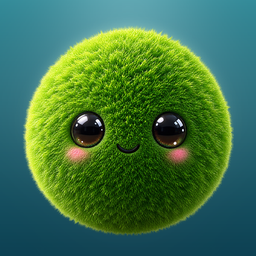
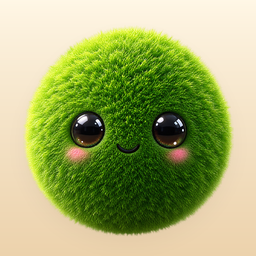
사이트 개편 - 첫 화면 · 마리모 소개 · 회사 정보
카드 한 장뿐이라 빈 페이지처럼 보였다. 구글플레이 출시에 맞춰 채운다.
- 첫 화면 문구, 마리모 소개(한/영) · 특징 4개 · 구글플레이 배지 · 웹 체험
- 스크린샷 3장 (앱인토스용과 같은 636x1048, webp)
- 회사 정보 (사업자등록번호 · 게임제작업 등록 제2026-000028호)
- 아이콘을 크림 06 판으로 교체 (1.0.1 과 같은 그림), apple-touch-icon · 공유 미리보기 og.jpg
검증: 390·1280 폭, 라이트·다크 — 가로 스크롤 없음, 콘솔 오류 0.

diff --git a/index.html b/index.html
@@ -4,110 +4,211 @@
 <meta charset="utf-8">
 <meta name="viewport" content="width=device-width, initial-scale=1">
 <title>iNEW Games</title>
-<meta name="description" content="주식회사 아이뉴의 게임 브랜드, iNEW Games.">
+<meta name="description" content="주식회사 아이뉴의 게임 브랜드. 물속 이끼공 마리모를 키우는 힐링 게임 「Marimo: My Moss Pet」.">
+<meta property="og:title" content="iNEW Games">
+<meta property="og:description" content="물속 이끼공 마리모를 키우는 힐링 게임 「Marimo: My Moss Pet」">
+<meta property="og:image" content="https://inewgames.kr/og.jpg">
+<meta property="og:url" content="https://inewgames.kr/">
+<meta name="theme-color" content="#f7f1e5" media="(prefers-color-scheme: light)">
+<meta name="theme-color" content="#0f1813" media="(prefers-color-scheme: dark)">
 <link rel="icon" href="/favicon.png">
+<link rel="apple-touch-icon" href="/apple-touch-icon.png">
 <link rel="preconnect" href="https://fonts.googleapis.com">
 <link rel="preconnect" href="https://fonts.gstatic.com" crossorigin>
-<link rel="stylesheet" href="https://fonts.googleapis.com/css2?family=Gowun+Dodum&family=Noto+Sans+KR:wght@400;600&display=swap">
+<link rel="stylesheet" href="https://fonts.googleapis.com/css2?family=Jua&family=Noto+Sans+KR:wght@400;500;700&display=swap">
 <style>
+  /* 팔레트 — 게임에서 가져왔다: 아이콘의 크림, 어항 테두리의 깊은 물풀색, 마리모의 이끼 초록, 물빛 */
   :root {
-    --bg: #f3f7f4;
-    --panel: #ffffff;
-    --ink: #17241e;
-    --muted: #5b6e65;
-    --line: #dbe6e0;
-    --accent: #2e7d5b;
-    --accent-ink: #ffffff;
+    --ground: #f7f1e5;      /* 크림 (아이콘 배경) */
+    --panel: #fffaf1;
+    --ink: #1c2b22;         /* 깊은 물풀 */
+    --muted: #5f6f64;
+    --line: #e4dccb;
+    --moss: #3f7d34;        /* 이끼 */
+    --moss-ink: #ffffff;
+    --water: #2f86a0;
+    --chip: #ece4d3;
   }
   @media (prefers-color-scheme: dark) {
     :root:not([data-theme="light"]) {
-      --bg: #0f1613;
-      --panel: #17211d;
-      --ink: #e4ede8;
-      --muted: #93a79d;
-      --line: #263430;
-      --accent: #6cc79c;
-      --accent-ink: #0f1613;
+      --ground: #0f1813; --panel: #16221b; --ink: #e6eee8; --muted: #95a79b;
+      --line: #25352c; --moss: #8cc96d; --moss-ink: #0f1813; --water: #6cc3dc; --chip: #1e2c24;
     }
   }
   :root[data-theme="dark"] {
-    --bg: #0f1613;
-    --panel: #17211d;
-    --ink: #e4ede8;
-    --muted: #93a79d;
-    --line: #263430;
-    --accent: #6cc79c;
-    --accent-ink: #0f1613;
+    --ground: #0f1813; --panel: #16221b; --ink: #e6eee8; --muted: #95a79b;
+    --line: #25352c; --moss: #8cc96d; --moss-ink: #0f1813; --water: #6cc3dc; --chip: #1e2c24;
   }
+
   * { box-sizing: border-box; }
+  html { -webkit-text-size-adjust: 100%; }
   body {
-    margin: 0; background: var(--bg); color: var(--ink);
+    margin: 0; background: var(--ground); color: var(--ink);
     font-family: "Noto Sans KR", -apple-system, "Segoe UI", sans-serif;
-    font-size: 16px; line-height: 1.7;
+    font-size: 16px; line-height: 1.75;
   }
-  main { max-width: 44rem; margin: 0 auto; padding: 4.5rem 1rem 3rem; }
-  .brand {
-    font-family: "Gowun Dodum", "Noto Sans KR", sans-serif;
-    font-size: clamp(2rem, 6vw, 2.75rem); letter-spacing: -0.01em;
-    margin: 0; line-height: 1.15;
+  a { color: inherit; }
+  a:focus-visible, button:focus-visible { outline: 2px solid var(--water); outline-offset: 3px; border-radius: 6px; }
+  .wrap { max-width: 66rem; margin: 0 auto; padding: 0 1rem; }
+
+  /* 머리 */
+  header { padding: 1.4rem 0; }
+  header .wrap { display: flex; align-items: center; justify-content: space-between; gap: 1rem; }
+  .mark { font-family: "Jua", sans-serif; font-size: 1.35rem; text-decoration: none; letter-spacing: -0.01em; }
+  .mark b { color: var(--moss); font-weight: 400; }
+  nav { display: flex; gap: 1.2rem; font-size: .9rem; }
+  nav a { text-decoration: none; color: var(--muted); }
+  nav a:hover { color: var(--ink); }
+
+  /* 첫 화면 */
+  .hero { padding-block: 3.5rem 3rem; }
+  .hero h1 {
+    font-family: "Jua", sans-serif; font-weight: 400;
+    font-size: clamp(2.3rem, 7vw, 4.2rem); line-height: 1.15;
+    margin: 0; letter-spacing: -0.02em; text-wrap: balance;
   }
-  .brand b { color: var(--accent); font-weight: 400; }
-  .lede { color: var(--muted); margin: .6rem 0 3.5rem; }
-  .label {
-    font-size: .75rem; letter-spacing: .12em; text-transform: uppercase;
-    color: var(--muted); margin: 0 0 .9rem;
-  }
+  .hero h1 em { font-style: normal; color: var(--moss); }
+  .hero p { color: var(--muted); max-width: 34rem; margin: 1.1rem 0 0; font-size: 1.05rem; }
+
+  /* 게임 */
+  .label { font-size: .75rem; letter-spacing: .14em; text-transform: uppercase; color: var(--muted); margin: 0 0 1rem; }
   .game {
-    display: grid; grid-template-columns: 6.5rem 1fr; gap: 1.25rem; align-items: center;
-    background: var(--panel); border: 1px solid var(--line); border-radius: 1.25rem;
-    padding: 1.25rem;
+    background: var(--panel); border: 1px solid var(--line); border-radius: 1.75rem;
+    padding: clamp(1.25rem, 4vw, 2.5rem);
+    display: grid; grid-template-columns: minmax(0, 1fr) minmax(0, 1.05fr); gap: clamp(1.5rem, 4vw, 3rem);
+    align-items: center;
   }
-  .game img { width: 6.5rem; height: 6.5rem; border-radius: 1.4rem; display: block; }
-  .game h2 { margin: 0; font-size: 1.2rem; line-height: 1.35; }
-  .game .ko { color: var(--muted); font-size: .9rem; margin: .1rem 0 .55rem; }
-  .game p { margin: 0 0 .9rem; font-size: .95rem; }
-  .links { display: flex; flex-wrap: wrap; gap: .5rem; }
-  .links a {
-    font-size: .875rem; text-decoration: none; padding: .4rem .9rem;
-    border-radius: 999px; border: 1px solid var(--line); color: var(--ink);
+  .title-row { display: flex; gap: 1rem; align-items: center; margin-bottom: 1.1rem; }
+  .title-row img { width: 5.5rem; height: 5.5rem; border-radius: 1.3rem; flex: none; box-shadow: 0 6px 18px rgba(60, 45, 20, .14); }
+  .game h2 { font-family: "Jua", sans-serif; font-weight: 400; font-size: 1.75rem; line-height: 1.2; margin: 0; }
+  .game .ko { color: var(--muted); font-size: .95rem; margin-top: .15rem; }
+  .game p { margin: 0 0 .8rem; }
+  .game p.en { color: var(--muted); font-size: .92rem; }
+  .chips { display: flex; flex-wrap: wrap; gap: .45rem; margin: 1.2rem 0 1.5rem; padding: 0; list-style: none; }
+  .chips li { background: var(--chip); border-radius: 999px; padding: .25rem .8rem; font-size: .85rem; }
+  .ctas { display: flex; flex-wrap: wrap; align-items: center; gap: .75rem; }
+  .ctas .play img { height: 3.4rem; display: block; margin: -0.35rem; }  /* 배지 이미지 자체에 투명 여백이 있다 */
+  .btn {
+    display: inline-flex; align-items: center; gap: .4rem;
+    text-decoration: none; font-weight: 500; font-size: .95rem;
+    padding: .7rem 1.2rem; border-radius: .7rem;
+    border: 1.5px solid var(--ink); color: var(--ink);
   }
-  .links a.primary { background: var(--accent); color: var(--accent-ink); border-color: var(--accent); }
-  .links a:focus-visible { outline: 2px solid var(--accent); outline-offset: 2px; }
-  footer {
-    max-width: 44rem; margin: 0 auto; padding: 2rem 1rem 3rem;
-    border-top: 1px solid var(--line); color: var(--muted); font-size: .8rem; line-height: 1.8;
+  .btn:hover { background: var(--ink); color: var(--ground); }
+
+  /* 스크린샷 — 세 장을 살짝 겹쳐 부채처럼 */
+  .shots { display: flex; justify-content: center; align-items: flex-end; padding: .5rem 0; max-width: 30rem; margin: 0 auto; width: 100%; }
+  .shots img {
+    width: 34%; height: auto; aspect-ratio: 636 / 1048; object-fit: cover;
+    border-radius: 1.1rem; border: 4px solid var(--panel);
+    box-shadow: 0 10px 28px rgba(30, 40, 30, .20);
   }
+  .shots img:nth-child(1) { transform: rotate(-5deg) translate(10%, 4%); }
+  .shots img:nth-child(2) { transform: translateY(-4%); z-index: 1; width: 36%; }
+  .shots img:nth-child(3) { transform: rotate(5deg) translate(-10%, 4%); }
+
+  /* 회사 */
+  .about { padding-block: 4rem 2rem; display: grid; grid-template-columns: 1fr 1fr; gap: 2rem; }
+  .about h3 { font-family: "Jua", sans-serif; font-weight: 400; font-size: 1.3rem; margin: 0 0 .6rem; }
+  .about p { margin: 0; color: var(--muted); }
+  dl { margin: 0; display: grid; grid-template-columns: auto 1fr; gap: .35rem 1.1rem; font-size: .92rem; }
+  dt { color: var(--muted); white-space: nowrap; }
+  dd { margin: 0; font-variant-numeric: tabular-nums; }
+
+  footer { border-top: 1px solid var(--line); padding: 1.5rem 0 2.5rem; font-size: .82rem; color: var(--muted); }
+  footer .wrap { display: flex; flex-wrap: wrap; justify-content: space-between; gap: .75rem; }
   footer a { color: var(--muted); }
-  .nw { white-space: nowrap; }
-  @media (max-width: 30rem) {
+
+  @media (max-width: 52rem) {
     .game { grid-template-columns: 1fr; }
+    .shots { order: -1; }
+    .about { grid-template-columns: 1fr; }
+  }
+  @media (max-width: 30rem) {
+    nav { display: none; }
+    .hero { padding-block: 2rem 2.2rem; }
+    .title-row img { width: 4.5rem; height: 4.5rem; }
+  }
+  @media (prefers-reduced-motion: no-preference) {
+    .shots img { transition: transform .4s ease; }
+    .game:hover .shots img:nth-child(1) { transform: rotate(-8deg) translate(4%, 5%); }
+    .game:hover .shots img:nth-child(3) { transform: rotate(8deg) translate(-4%, 5%); }
   }
 </style>
 </head>
 <body>
-<main>
-  <h1 class="brand">i<b>NEW</b> Games</h1>
-  <p class="lede">주식회사 아이뉴의 게임 브랜드입니다.</p>
+<header>
+  <div class="wrap">
+    <a class="mark" href="/">i<b>NEW</b> Games</a>
+    <nav aria-label="사이트">
+      <a href="#games">게임</a>
+      <a href="#about">회사</a>
+      <a href="mailto:cs@inew.kr">문의</a>
+    </nav>
+  </div>
+</header>
 
-  <p class="label">Games</p>
-  <article class="game">
-    <img src="/marimo/icon.png" alt="마리모 아이콘" width="104" height="104">
-    <div>
-      <h2>Marimo: My Moss Pet</h2>
-      <div class="ko">마리모 이끼친구</div>
-      <p>조용한 물속에서 이끼공 마리모를 키우는 힐링 게임.</p>
-      <div class="links">
-        <a class="primary" href="https://inew-corp.github.io/marimo-raising/game/">웹에서 해보기</a>
-        <a href="/marimo/privacy/">개인정보처리방침</a>
+<main>
+  <section class="hero wrap">
+    <h1>천천히,<br><em>곁에 두는</em> 게임</h1>
+    <p>iNEW Games는 주식회사 아이뉴의 게임 브랜드입니다. 서두르지 않아도 되고, 잠깐 들러도 괜찮은 작은 게임을 만듭니다.</p>
+  </section>
+
+  <section id="games" class="wrap" aria-labelledby="marimo-title">
+    <p class="label">Games</p>
+    <article class="game">
+      <div>
+        <div class="title-row">
+          <img src="/marimo/icon.png" alt="" width="88" height="88">
+          <div>
+            <h2 id="marimo-title">Marimo: My Moss Pet</h2>
+            <div class="ko">마리모 이끼친구</div>
+          </div>
+        </div>
+        <p>조용한 물속에서 이끼공 마리모를 키웁니다. 물을 갈아주고 햇빛을 비춰주면 마리모가 조금씩 자랍니다. 서두를 일도, 경쟁할 상대도 없습니다.</p>
+        <p class="en">Raise a tiny moss ball in a quiet tank. Change the water, give it some sun, and watch it grow — no rush, no rivals.</p>
+        <ul class="chips">
+          <li>미니게임 4종</li>
+          <li>오프라인 플레이</li>
+          <li>10개 언어</li>
+          <li>광고 없음</li>
+        </ul>
+        <div class="ctas">
+          <a class="play" href="https://play.google.com/store/apps/details?id=kr.inew.marimo">
+            <img src="https://play.google.com/intl/ko/badges/static/images/badges/ko_badge_web_generic.png" alt="Google Play에서 다운로드">
+          </a>
+          <a class="btn" href="https://inew-corp.github.io/marimo-raising/game/">웹에서 해보기 →</a>
+        </div>
       </div>
+      <div class="shots" aria-label="게임 화면">
+        <img src="/marimo/shots/p1-tank.webp" alt="어항 속 마리모" width="636" height="1048" loading="lazy">
+        <img src="/marimo/shots/p2-games.webp" alt="미니게임 고르기" width="636" height="1048" loading="lazy">
+        <img src="/marimo/shots/p3-room.webp" alt="창가 방에 놓인 마리모 어항" width="636" height="1048" loading="lazy">
+      </div>
+    </article>
+  </section>
+
+  <section id="about" class="about wrap">
+    <div>
+      <h3>회사</h3>
+      <p>주식회사 아이뉴는 경기도 김포에 있는 회사입니다. 게임은 iNEW Games라는 이름으로 만듭니다.</p>
     </div>
-  </article>
+    <dl>
+      <dt>상호</dt><dd>주식회사 아이뉴 (INEW CO., LTD.)</dd>
+      <dt>대표</dt><dd>이재용</dd>
+      <dt>사업자등록번호</dt><dd>290-86-00553</dd>
+      <dt>게임제작업</dt><dd>등록 제2026-000028호</dd>
+      <dt>주소</dt><dd>경기도 김포시 김포한강10로133번길 127, 7층 734호</dd>
+      <dt>문의</dt><dd><a href="mailto:cs@inew.kr">cs@inew.kr</a></dd>
+    </dl>
+  </section>
 </main>
+
 <footer>
-  주식회사 아이뉴 (INEW CO., LTD.) · 대표 이재용<br>
-  <span class="nw">사업자등록번호 290-86-00553</span> · <span class="nw">게임제작업 등록 제2026-000028호</span><br>
-  경기도 김포시 김포한강10로133번길 127, 7층 734호<br>
-  문의 <a href="mailto:cs@inew.kr">cs@inew.kr</a>
+  <div class="wrap">
+    <span>© 2026 INEW CO., LTD.</span>
+    <a href="/marimo/privacy/">Marimo 개인정보처리방침</a>
+  </div>
 </footer>
 </body>
 </html>
